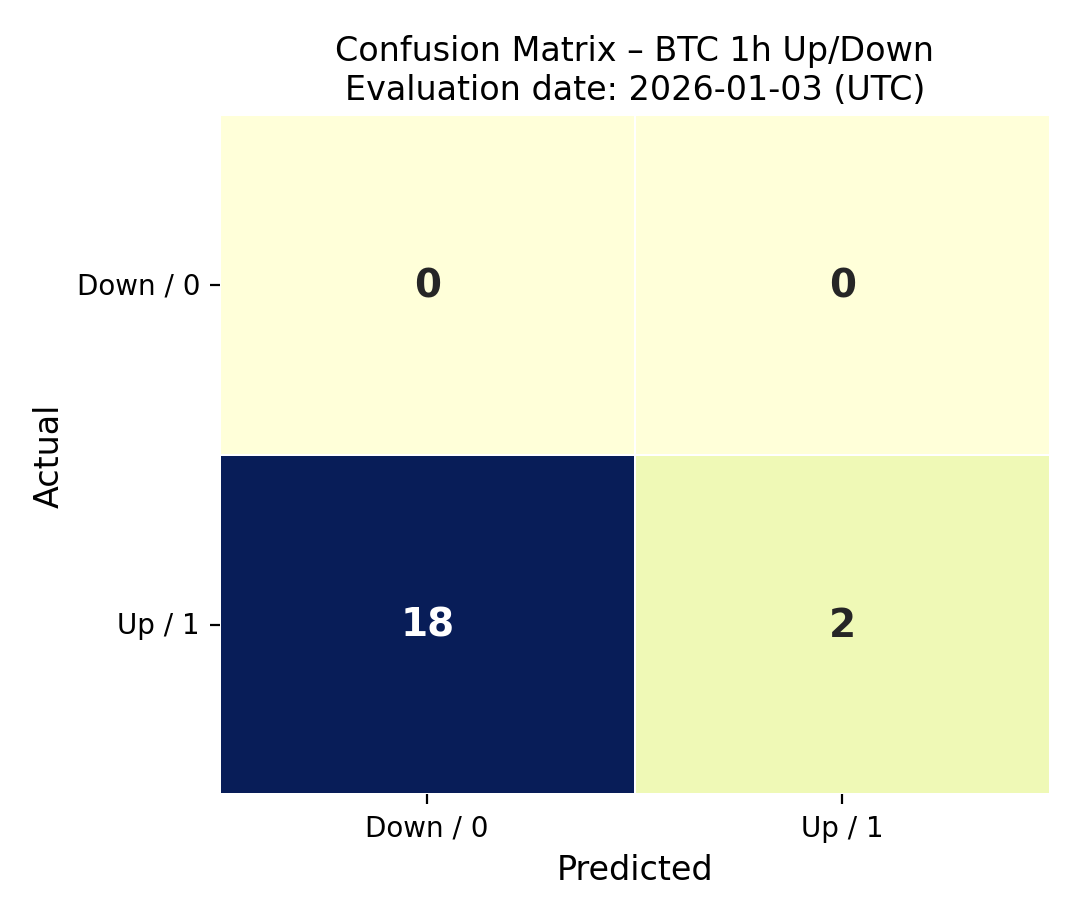
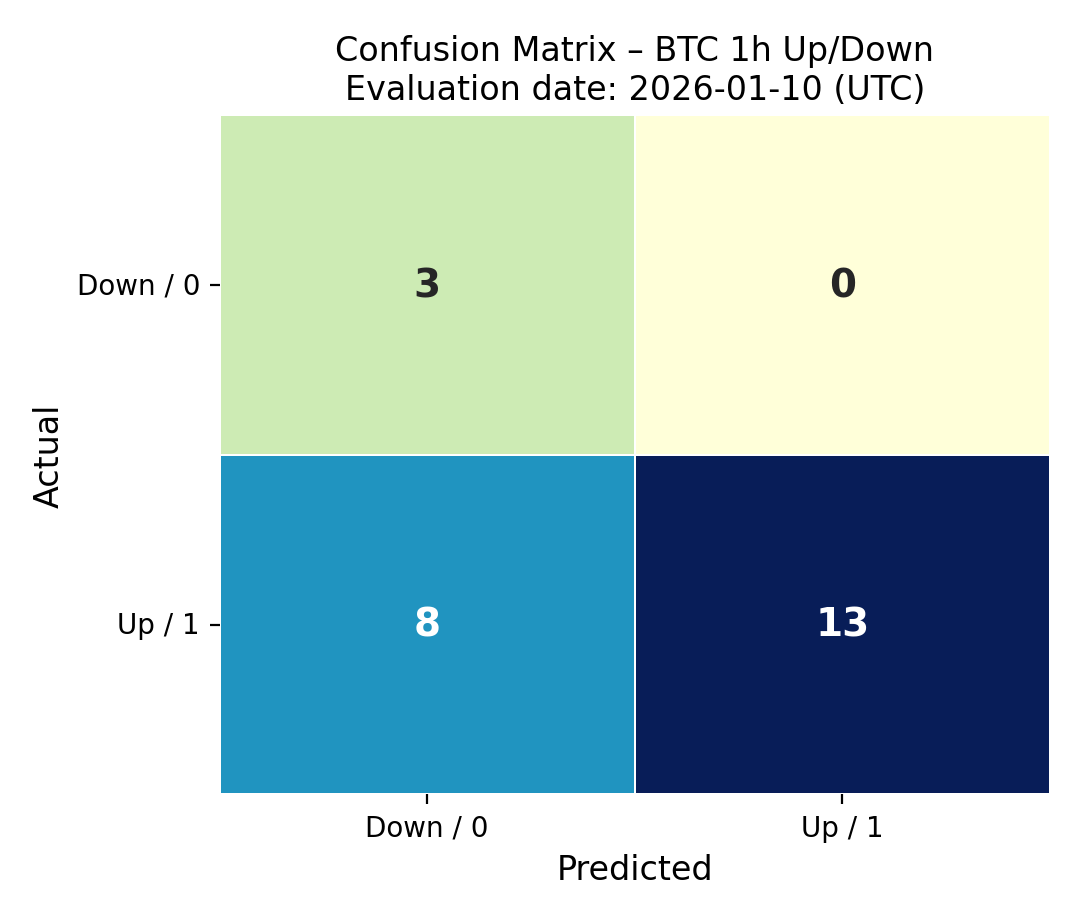
1.10， 成功！

diff --git a/pyfiles/crypto_inference.py b/pyfiles/crypto_inference.py
@@ -382,11 +382,15 @@ def evaluate_and_save(model: XGBClassifier, df_eval: pd.DataFrame, target_date_s
 # ---------- Main ----------
 
 def main():
-    now_utc = datetime.now(timezone.utc)
-    target_day = now_utc.date() - timedelta(days=TARGET_OFFSET_DAYS)  # D
-    next_day = target_day + timedelta(days=1)                        # D+1
+    # now_utc = datetime.now(timezone.utc)
+    # target_day = now_utc.date() - timedelta(days=TARGET_OFFSET_DAYS)  # D
+    # next_day = target_day + timedelta(days=1)                        # D+1
+    # ===== Manually fixed evaluation date (UTC) =====
+    target_day = datetime(2026, 1, 10, tzinfo=timezone.utc).date()  # D = 2026-01-10
+    next_day = target_day + timedelta(days=1)                      # D+1 = 2026-01-11
 
-    print(f"Now UTC             : {now_utc.isoformat()}")
+
+    #print(f"Now UTC             : {now_utc.isoformat()}")
     print(f"Evaluating day D     : {target_day} (00:00–23:00 UTC)")
     print(f"Using next day D+1   : {next_day} (00:00–23:00 UTC) to build truth labels")
 
